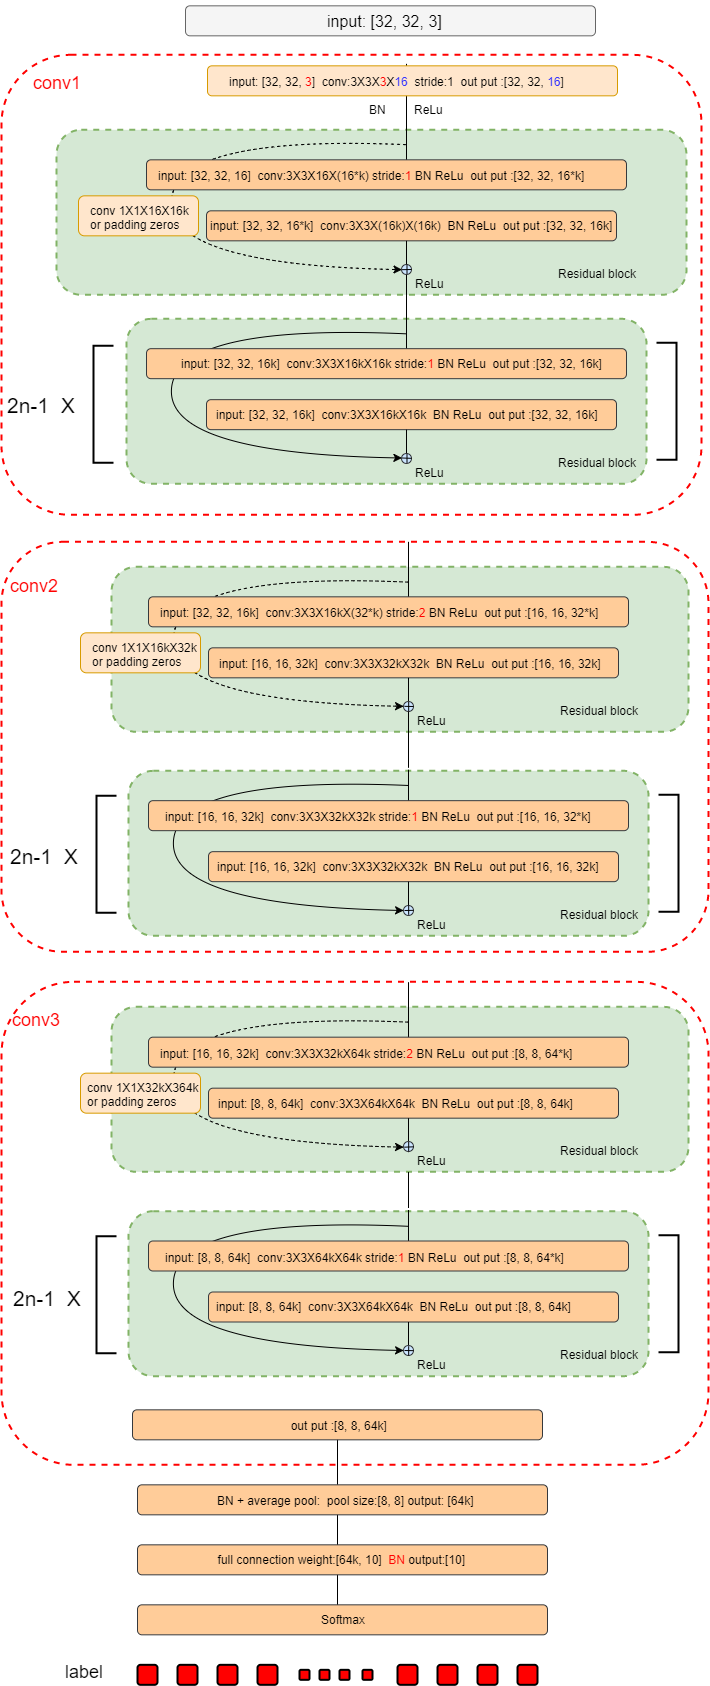
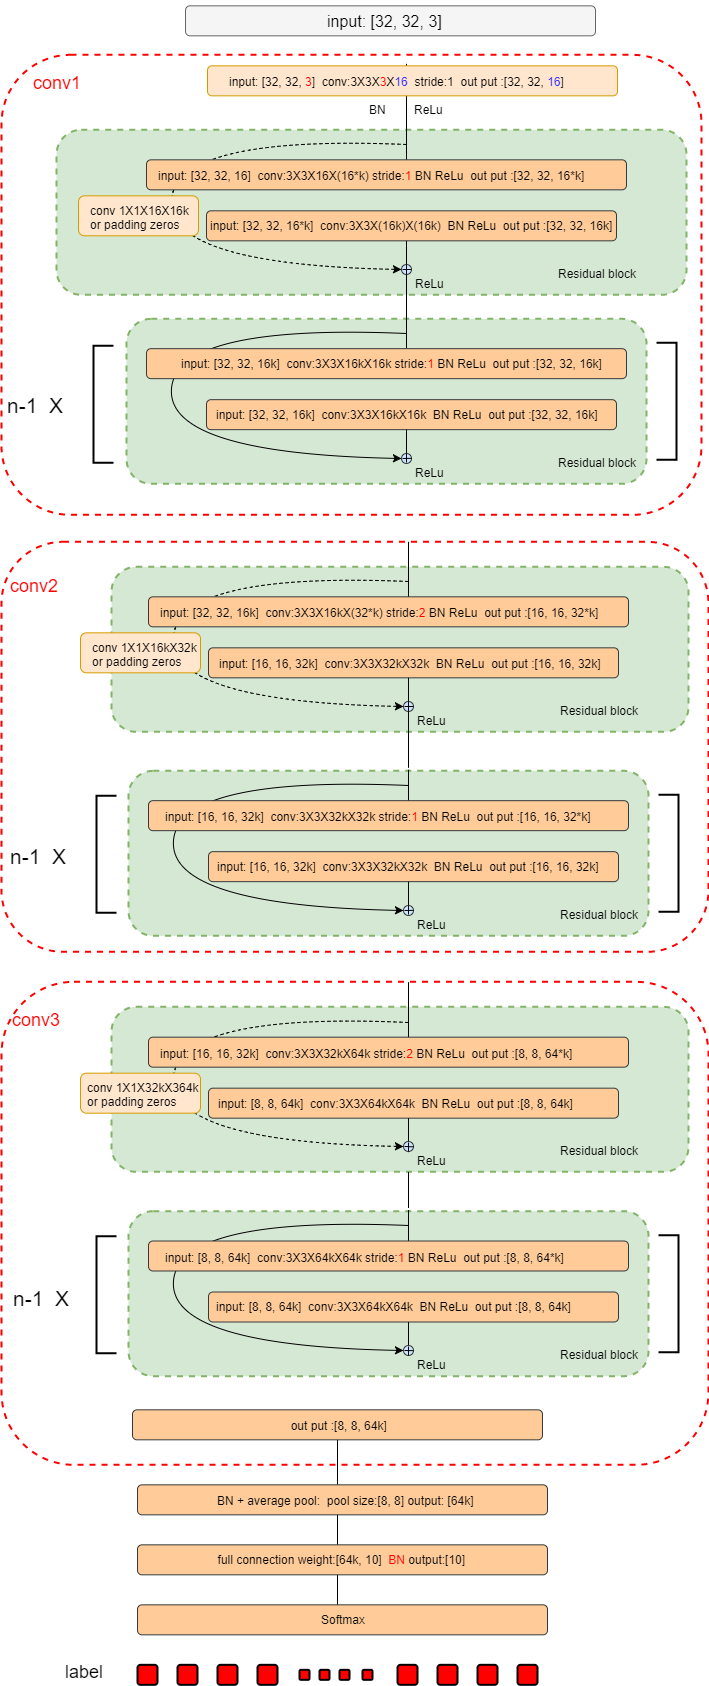
duanyzhi.github.io

diff --git a/_posts/2017-11-14-ResNet.md b/_posts/2017-11-14-ResNet.md
@@ -32,11 +32,11 @@ title: ResNet
 
 cifar10模型：
 
-![resnet_cifar10](https://i.imgur.com/I83e6tk.png)
+![resnet_cifar10](https://i.imgur.com/CFTtGjD.png)
 
 当输入是cifar10是，卷积部分分为三块，总共卷积层有6n+2层。比如我是50层cnn，那么n=8. 一共分为三个大卷积块和一个全连接。所有的卷积核大小都是[3, 3]
 
-* 第一个卷积块有2n+1层第一层卷积核大小是[3, 3, 3, 16]，输出是[32, 32, 16]的特征图，然后送给一个residual block.这里一个residual block由两个3\*3卷积层和一个前向特征加到后面(弯箭头部分)部分组成。第一个卷积为[32, 32, 16, 16\*k]大小的卷积核，这里stride=2(特征图大小减半是通过第一次卷积时改变步长来降低的)。16\*k是输出特征维度，k取正整数，具体参考[Wide Residual Networks](https://arxiv.org/pdf/1605.07146.pdf).然后第二个卷积大小是[3, 3, 16k, 16k]。之后是将前向的特征加过来。由于前面维度是[32, 32, 16]，经过2个3\*3卷积后是[32, 32, 16k]所以要和resnet101一样要经过一个[1, 1, 16, 16k]卷积操作或者直接补零。（写代码的时候发现补零要好一点）。加完之后就是重复2n - 1个residual block，只不过这里卷积步长都是1了，不用变，而且弯相加部分因为维度也都一样了所以也不用操作就直接相加即可。
+* 第一个卷积块有2n+1层第一层卷积核大小是[3, 3, 3, 16]，输出是[32, 32, 16]的特征图，然后送给一个residual block.<font color="#FF0000" size = "3px">这里一个residual block由两个3\*3卷积层和一个前向特征加到后面(弯箭头部分)部分组成。</font>第一个卷积为[32, 32, 16, 16\*k]大小的卷积核，这里stride=2(特征图大小减半是通过第一次卷积时改变步长来降低的)。16\*k是输出特征维度，k取正整数，具体参考[Wide Residual Networks](https://arxiv.org/pdf/1605.07146.pdf).然后第二个卷积大小是[3, 3, 16k, 16k]。之后是将前向的特征加过来。由于前面维度是[32, 32, 16]，经过2个3\*3卷积后是[32, 32, 16k]所以要和resnet101一样要经过一个[1, 1, 16, 16k]卷积操作或者直接补零。（写代码的时候发现补零要好一点）。加完之后就是<font color="#FF0000" size = "3px">重复n - 1个residual block</font>，只不过这里卷积步长都是1了，不用变，而且弯相加部分因为维度也都一样了所以也不用操作就直接相加即可。这样第一个大卷积一共1+2+2*(n-1)=2n+1层。
 * 第二和第三个大卷积和上面几乎一样。只要注意维度分别变成[32k]和[64k]，还有就是每一个大卷积模块的第一个卷积操作stride设为2即可。
 * 输出是一个[8, 8, 64k]的特征，我们对前两维做一个8\*8的average pooling，得到[64k]向量。在进行最后一次全连接，得到cifar10的10分类结果。
 

diff --git a/_posts/2017-11-10-CNN.md b/_posts/2017-11-10-CNN.md
@@ -65,9 +65,7 @@ ave pooling, [2,2]的4个值取平均输出。
 
 ## Back Propagation(BP)
 ----------------------------------------------------------------------------------
-反向求导部分CostFunction采用：
-
-<img src="https://i.imgur.com/FNqCJIg.png" width = "450" height = "500" alt="l-11层残差"/>
+具体反向求导过程还有细节可以查看[cnn]()
 
      
 # [github code for cnn numpy python windows](https://github.com/duanyzhi/cnn_numpy)
